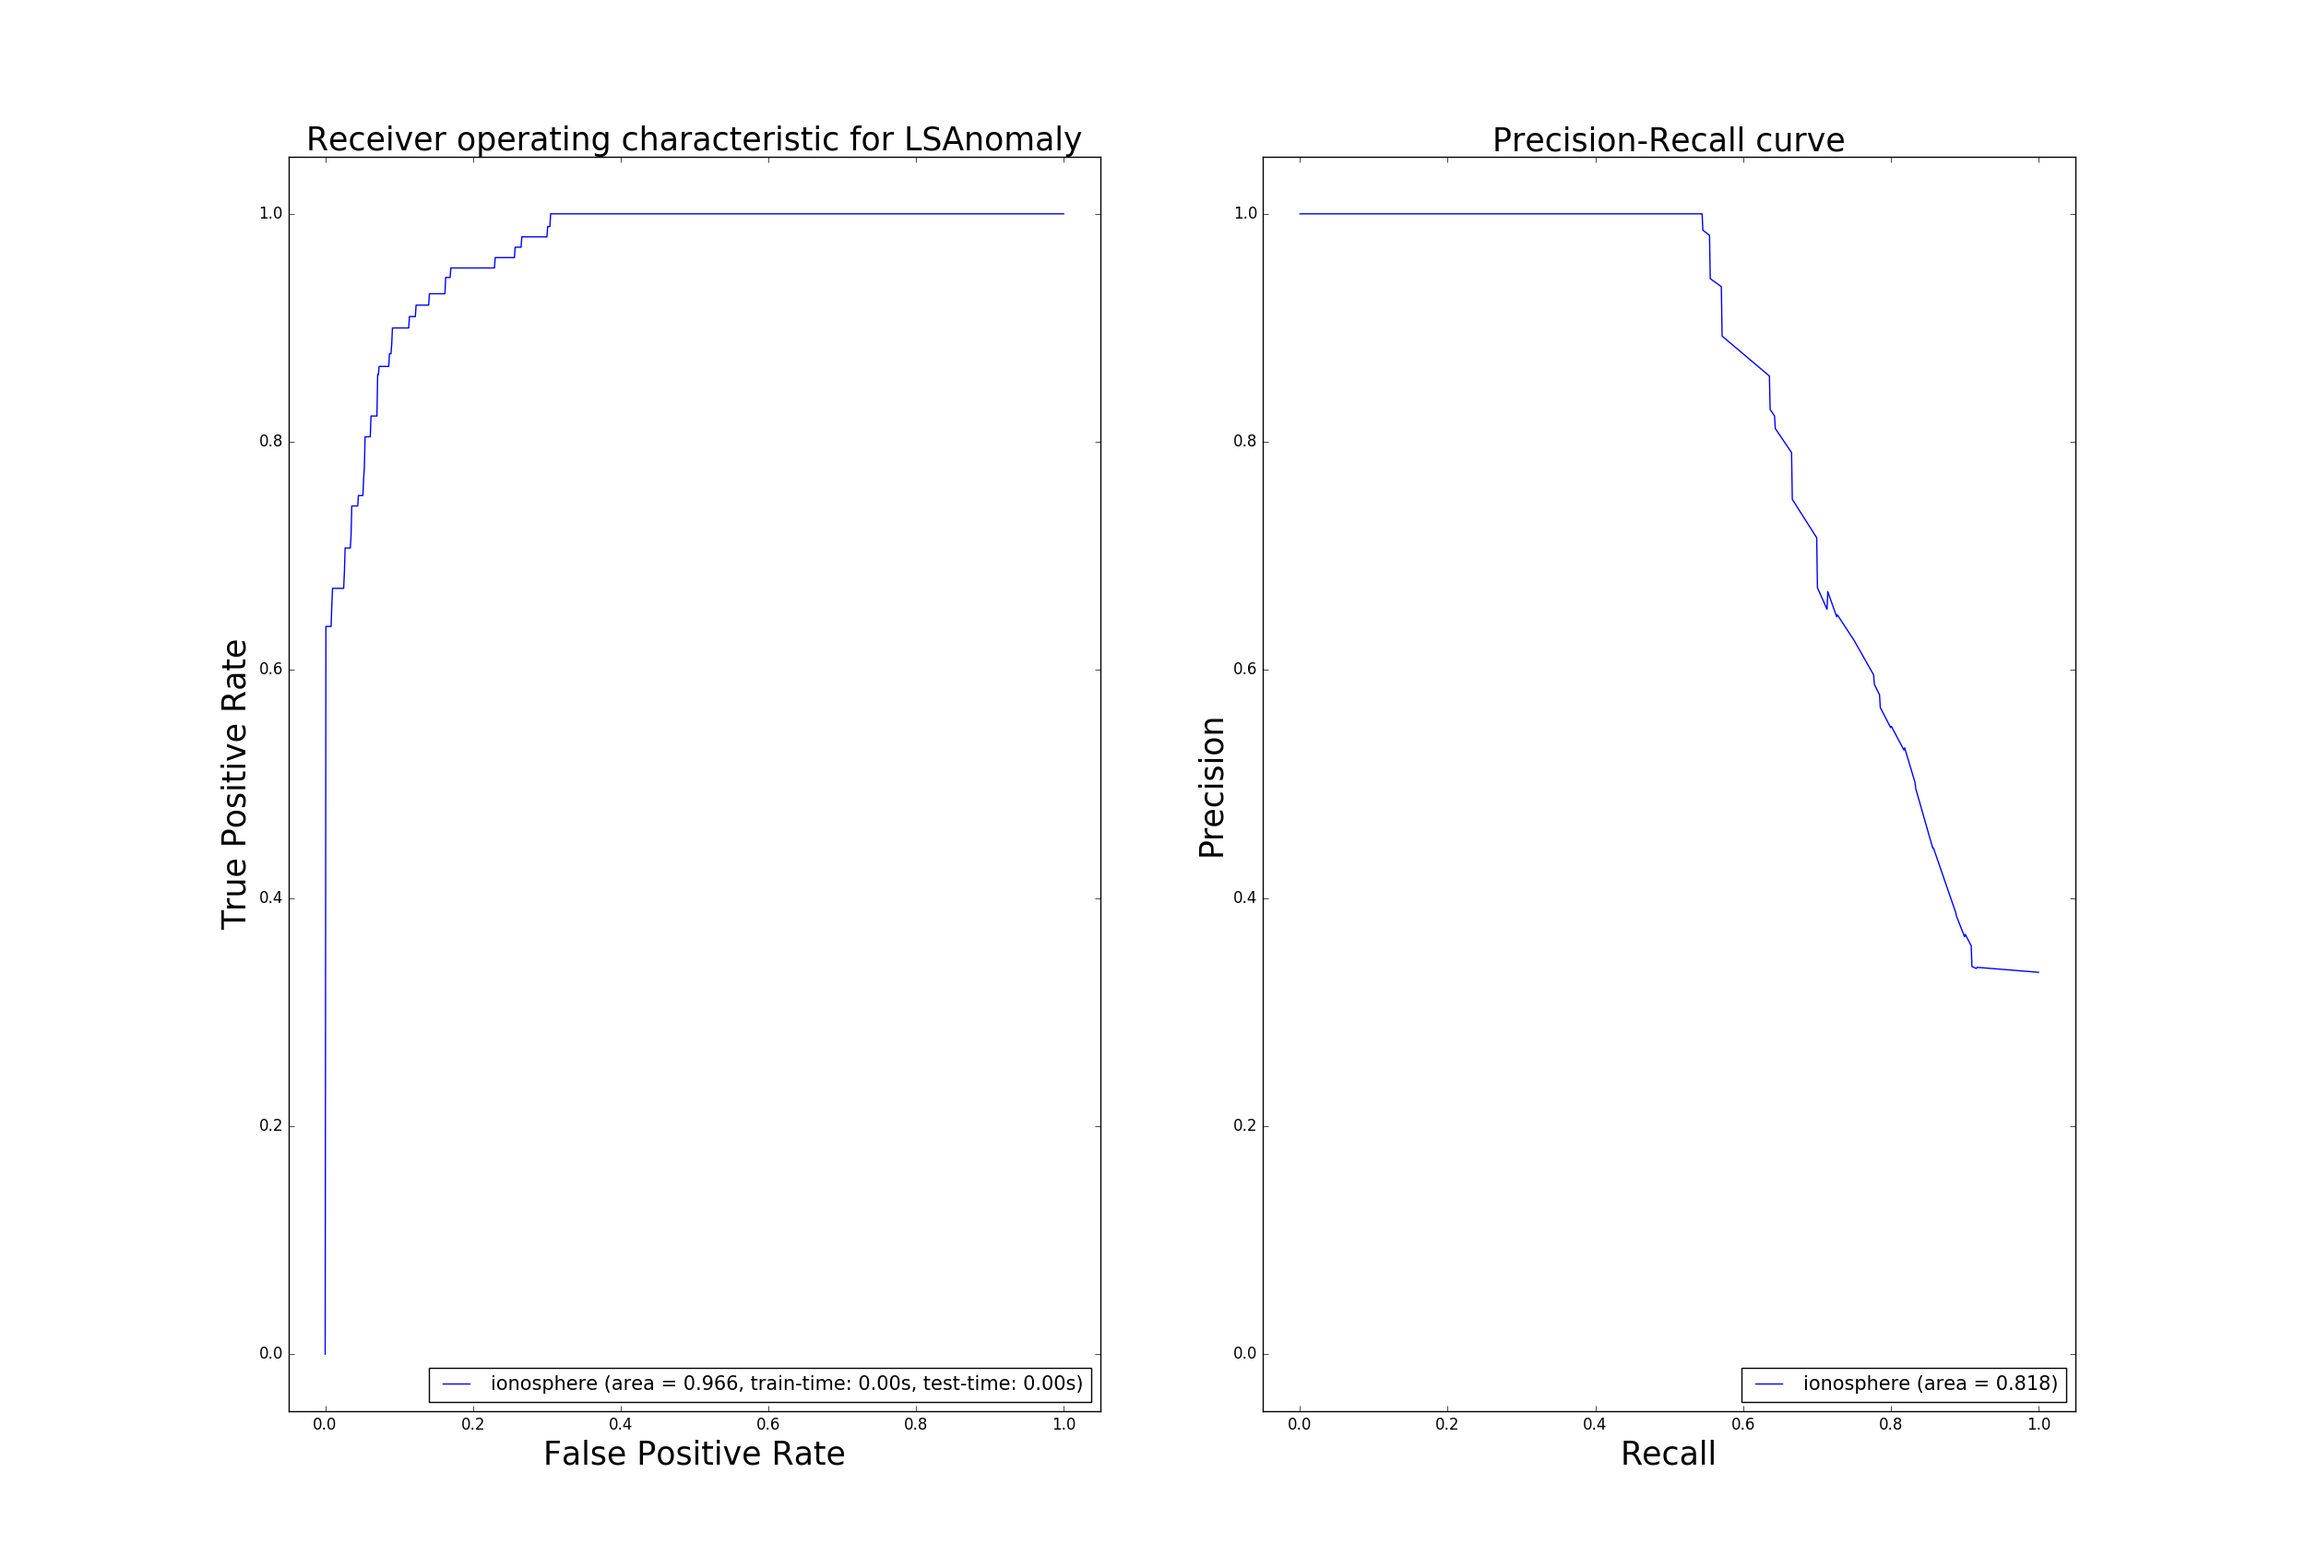
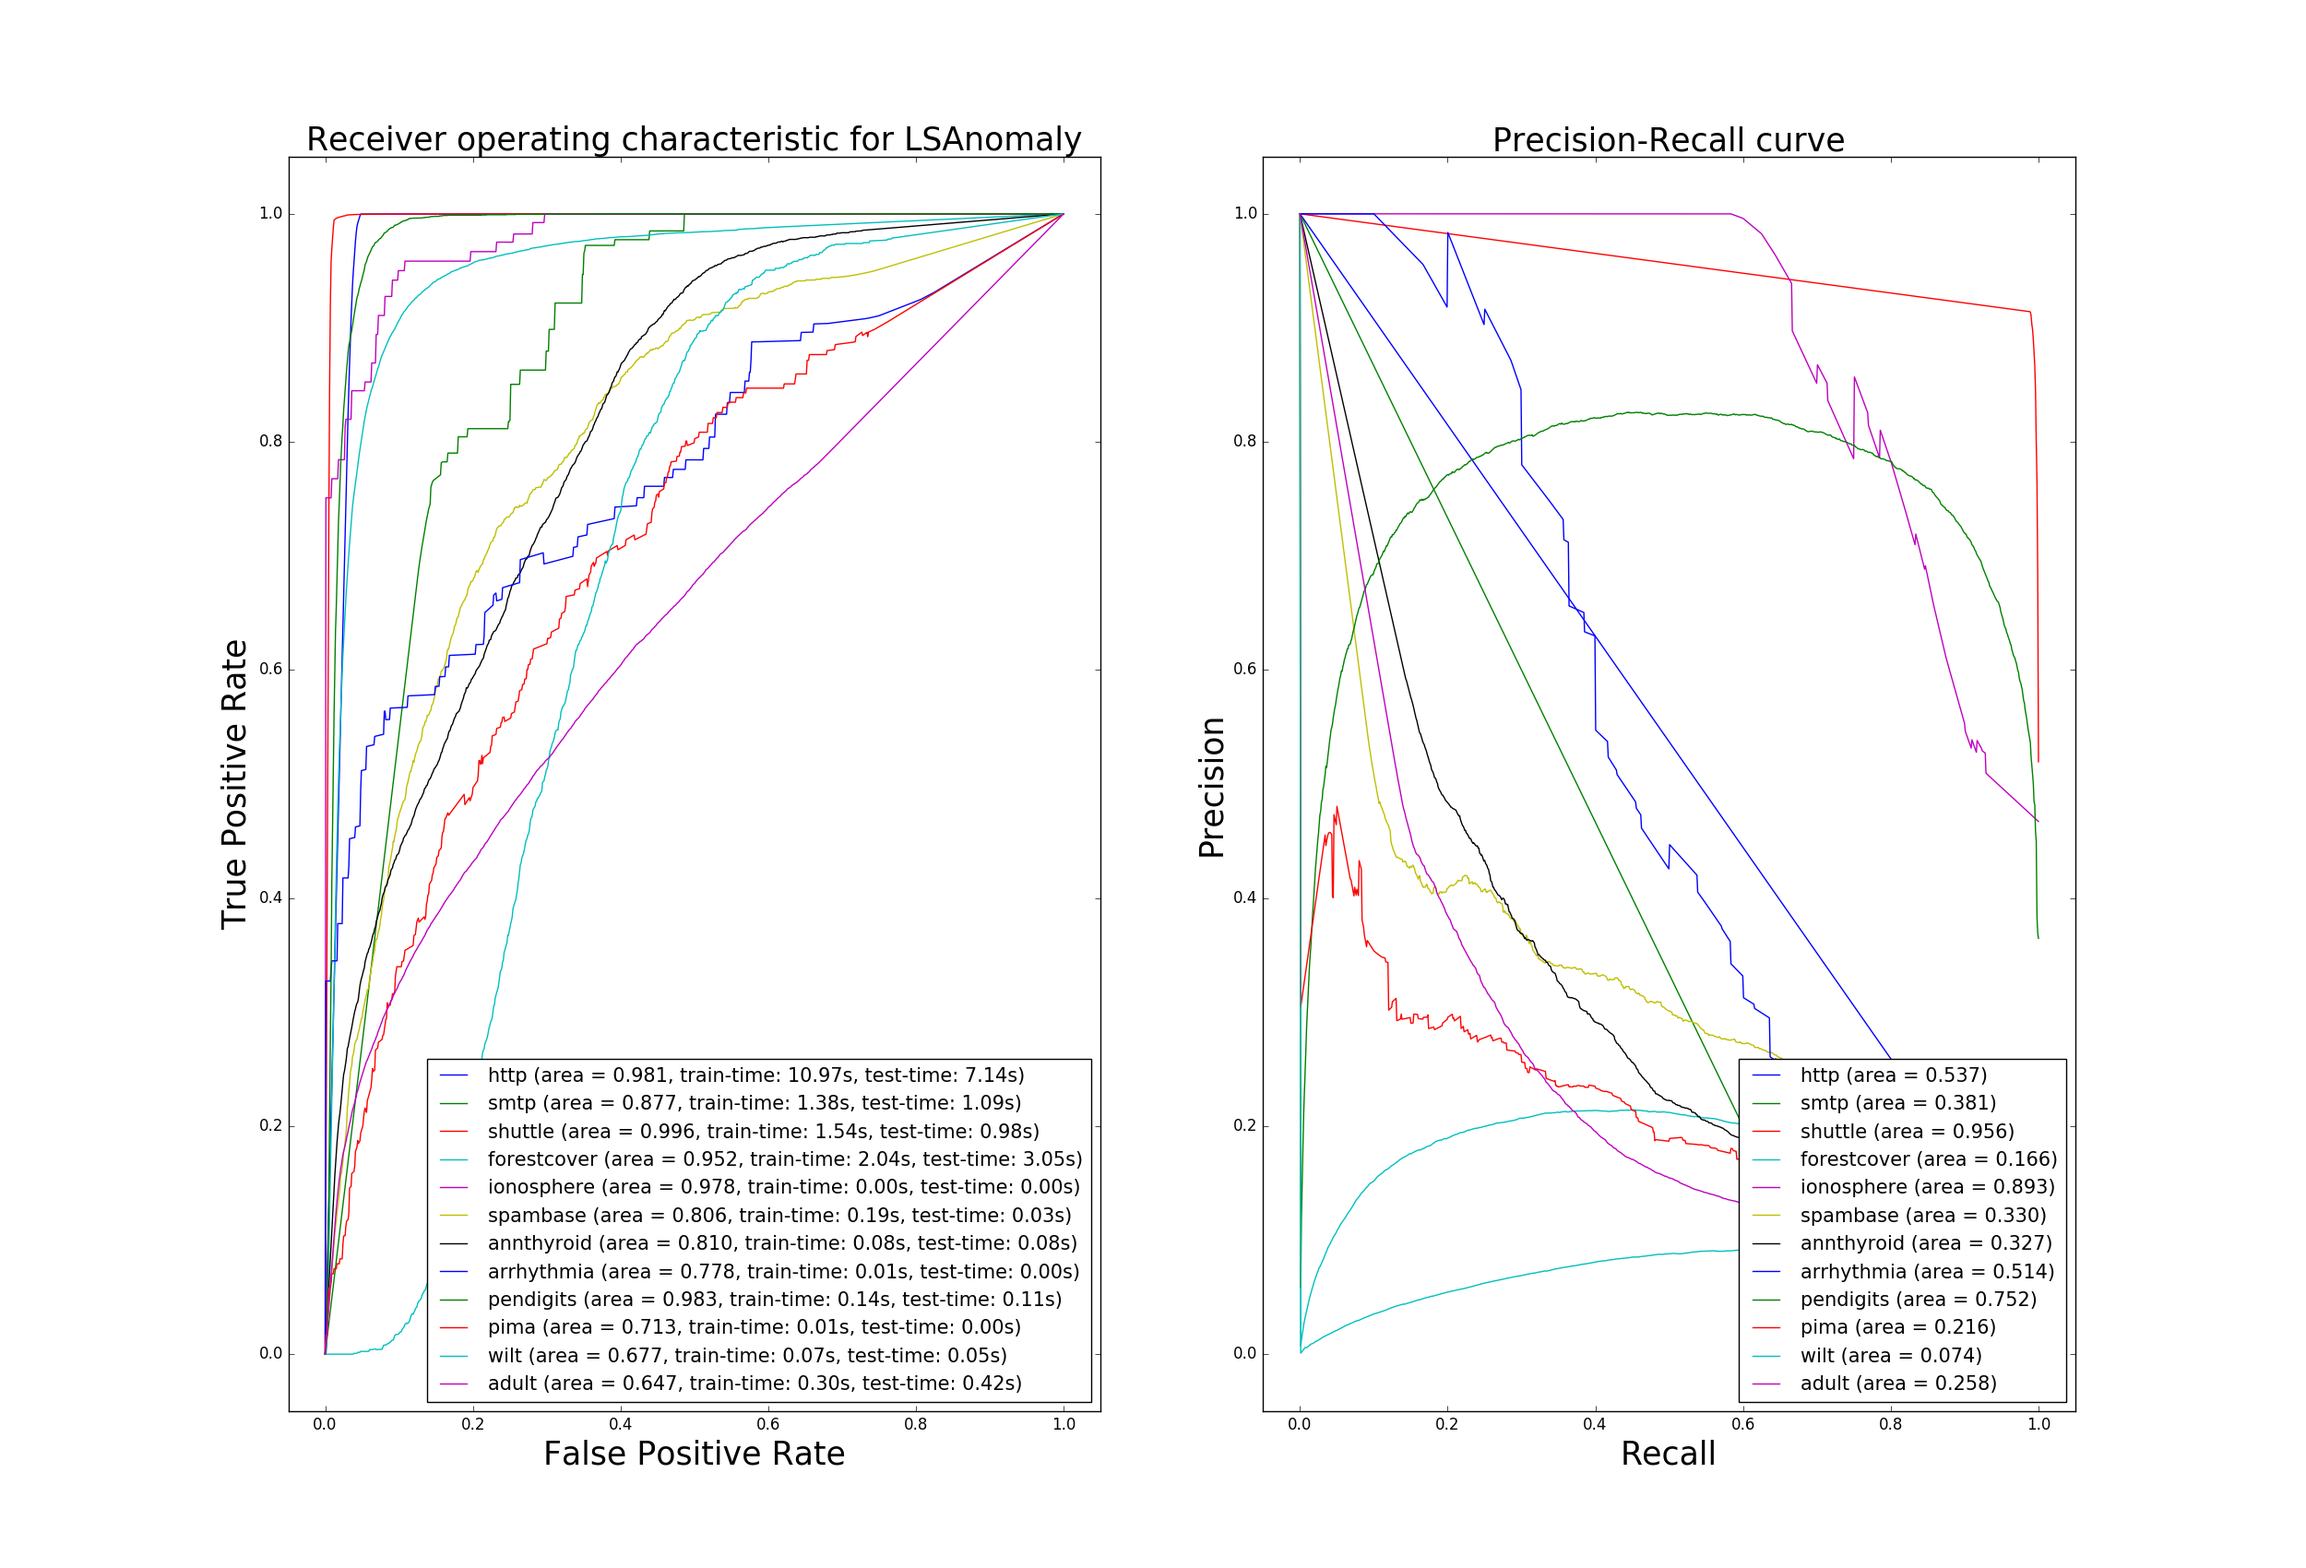
secure push

diff --git a/benchmarks/bench_lsanomaly.py b/benchmarks/bench_lsanomaly.py
@@ -39,15 +39,15 @@ nb_exp = 10
 #             'pendigits', 'pima', 'wilt', 'internet_ads', 'adult']
 
 # continuous datasets:
-# datasets = ['http', 'smtp', 'shuttle', 'forestcover',
-#             'ionosphere', 'spambase', 'annthyroid', 'arrhythmia',
-#             'pendigits', 'pima', 'wilt', 'adult']
+datasets = ['http', 'smtp', 'shuttle', 'forestcover',
+            'ionosphere', 'spambase', 'annthyroid', 'arrhythmia',
+            'pendigits', 'pima', 'wilt', 'adult']
 # new: ['ionosphere', 'spambase', 'annthyroid', 'arrhythmia', 'pendigits',
 #       'pima', 'wilt', 'adult']
 
 # datasets = ['ionosphere', 'spambase', 'annthyroid', 'arrhythmia',
 #             'pendigits', 'pima', 'wilt', 'adult']
-datasets = ['ionosphere']
+# datasets = ['ionosphere']
 plt.figure(figsize=(25, 17))
 
 for dat in datasets:

diff --git a/sklearn/lsanomaly.py b/sklearn/lsanomaly.py
@@ -83,7 +83,7 @@ class LSAnomaly(base.BaseEstimator):
            [  5.15255628e-103,   1.00000000e+000],
            [  1.00000000e+000,   0.00000000e+000]])
     """
-    def __init__(self, n_kernels_max=500, kernel_pos=None, sigma=None,
+    def __init__(self, n_kernels_max=2000, kernel_pos=None, sigma=None,
                  rho=None, gamma=None):
         self.n_kernels_max = n_kernels_max
         self.kernel_pos = kernel_pos

diff --git a/benchmarks/bench_RF.py b/benchmarks/bench_RF.py
@@ -42,7 +42,7 @@ OCRF_max_test = 1000000
 # # new datasets:
 # datasets = ['ionosphere', 'spambase', 'annthyroid', 'arrhythmia',
 #             'pendigits', 'pima', 'wilt', 'adult']
-datasets = ['adult,wilt']
+datasets = ['adult', 'wilt']
 
 plt.figure(figsize=(25, 17))
 
